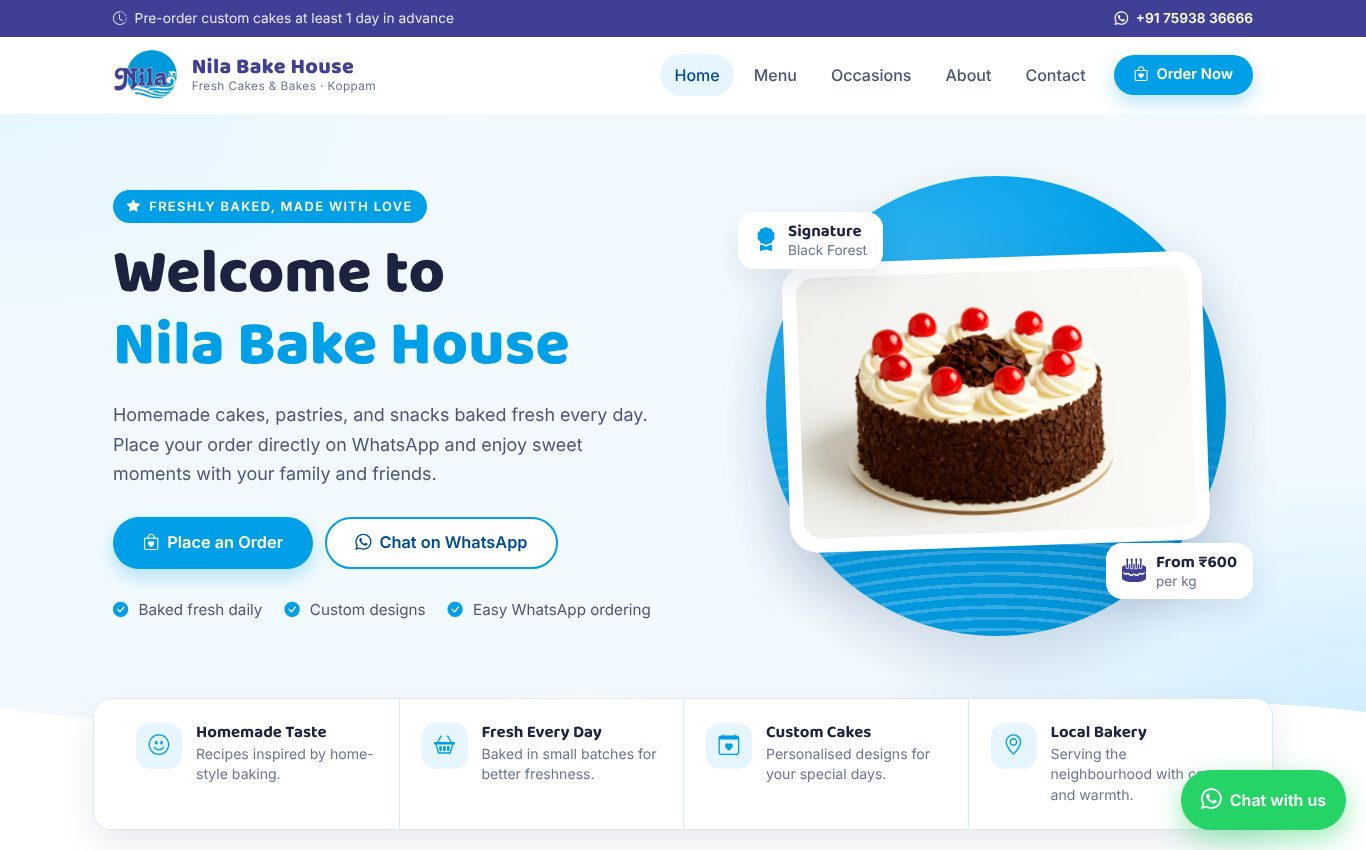
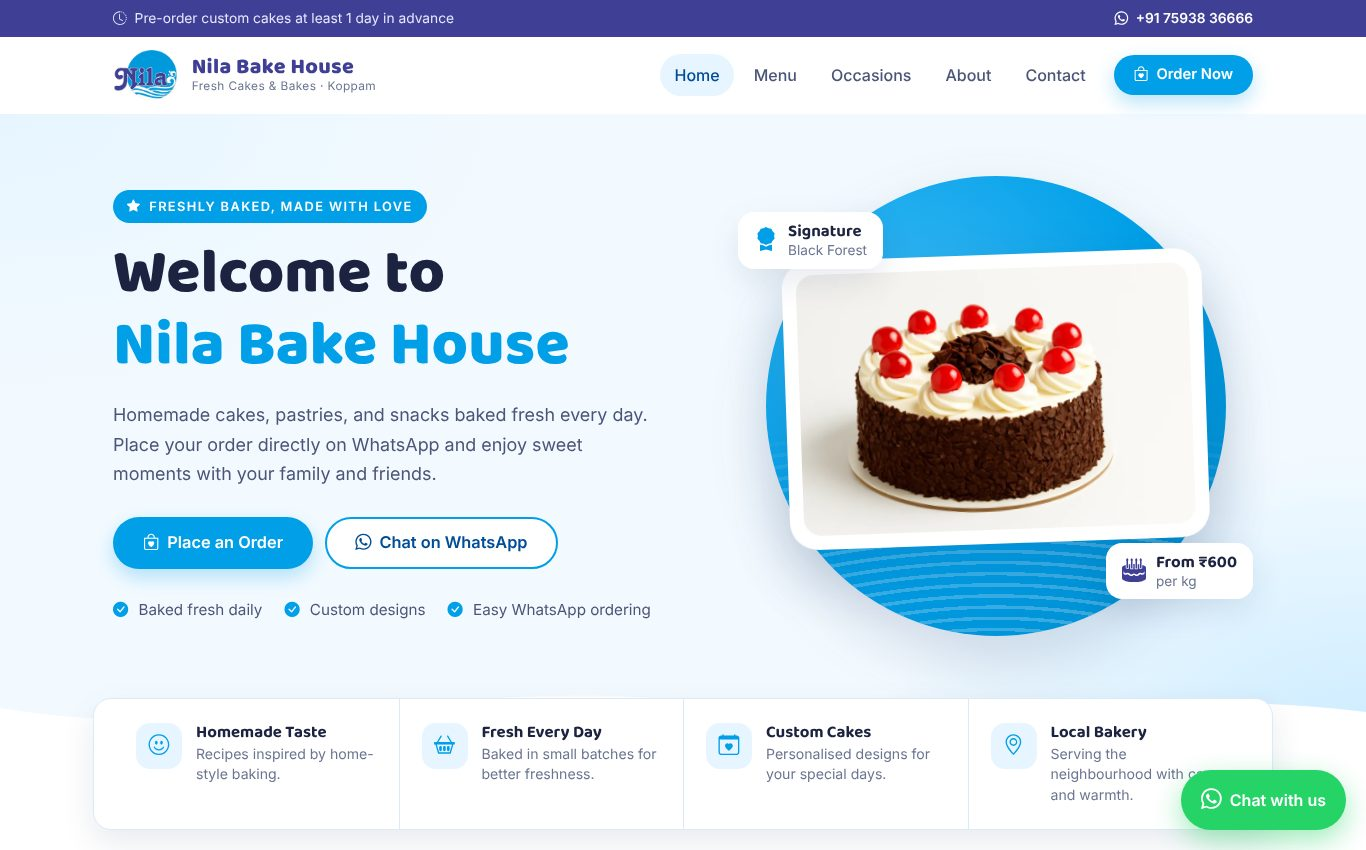
Show the hero cake image above the text on mobile
Claude-Session: https://claude.ai/code/session_014MBC1PvLi5WenX2P4sCVFk

Changed region(s): [[0.6149, 0.3365, 0.8917, 0.6424], [0.6457, 0.2753, 0.8609, 0.3059], [0.5842, 0.6424, 0.7072, 0.6729]]

diff --git a/assets/css/style.css b/assets/css/style.css
@@ -495,7 +495,7 @@ input.invalid, select.invalid { border-color: #e04f4f; }
 
     .hero { padding: 48px 0 100px; }
     .hero-grid { grid-template-columns: 1fr; gap: 40px; }
-    .hero-visual { min-height: 360px; }
+    .hero-visual { min-height: 360px; order: -1; }
 
     .order-grid, .about-grid, .contact-grid { grid-template-columns: 1fr; }
     .order-aside { position: static; }
